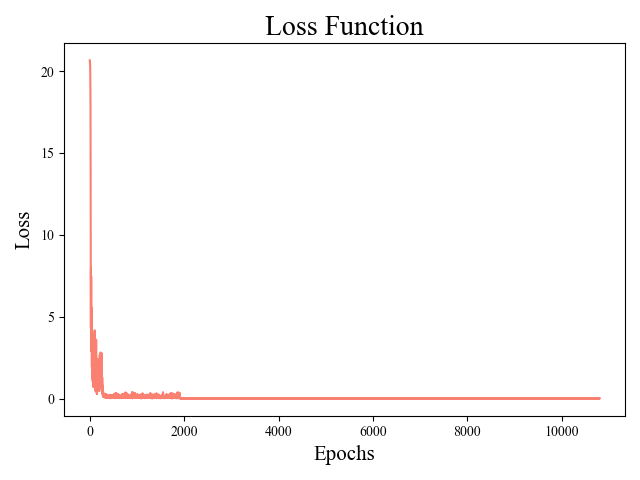
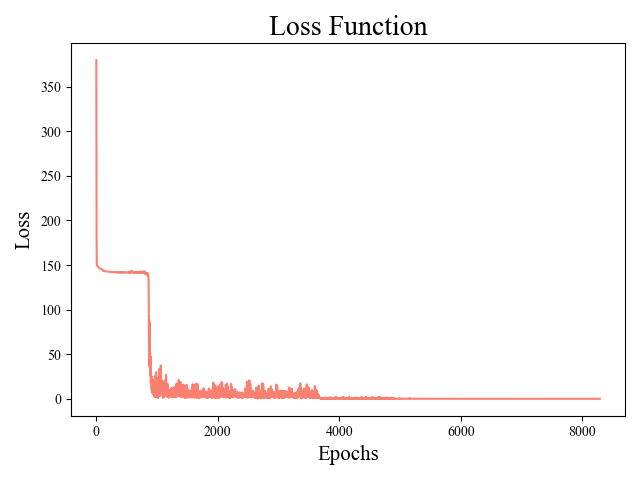
Add adjusting lr

diff --git a/train05.py b/train05.py
@@ -39,10 +39,9 @@ while deg_r < DEGREE:
     deg_r = R.as_poly(x).degree()
 
 # Create output file in the output directory
+initial_string = f"P(x): {present_result(P)}\nQ(x): {present_result(Q)}\nR(x): {present_result(R)}\n"
 with open(OUTPUT_FILE, "w") as f:
-    f.write(f"P(x): {present_result(P)}\n")
-    f.write(f"Q(x): {present_result(Q)}\n")
-    f.write(f"R(x): {present_result(R)}\n")
+    f.write(initial_string)
 
 # Initialize the model
 model = PolynomialSearch(degree=DEGREE, deg_q=DEG_Q).to(DEVICE)
@@ -93,9 +92,6 @@ for epoch in tqdm(range(EPOCHS), desc="Training", unit="epoch", total=EPOCHS):
             LR /= 10
             scheduler.step()
             count = 0
-
-            EARLY_STOPPING *= 10
-            EARLY_STOPPING = max(1e-3, EARLY_STOPPING)
             MIN_CHANGE /= 10
 
     # Plot the loss
@@ -103,8 +99,9 @@ for epoch in tqdm(range(EPOCHS), desc="Training", unit="epoch", total=EPOCHS):
         plot_loss(losses, save=LOSS_PLOT)
 
     # Evaluation
-    if epoch % (1*EPOCHS // 100) == 0:
-        with open(OUTPUT_FILE, "a") as f:
+    if epoch % (1 * EPOCHS // 100) == 0:
+        with open(OUTPUT_FILE, "w") as f:
+            f.write(initial_string)
             f.write("\n" + "-" * 50 + "\n")
             f.write(f"Epoch {epoch} ({int(epoch / EPOCHS * 100)}%): Loss = {loss.item():.3f}\n")
             f.write(f"R(x): {torch.round(output, decimals=2)}\n")
